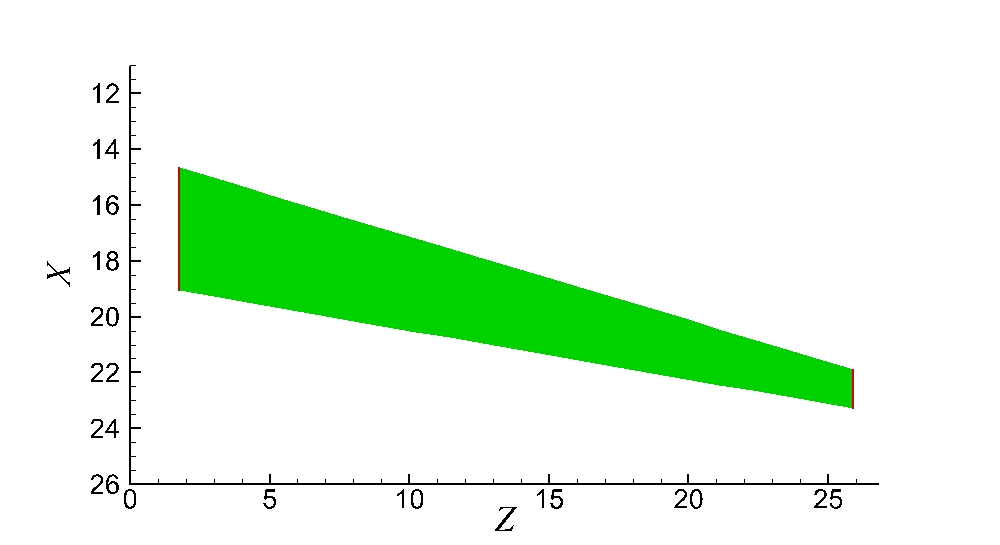
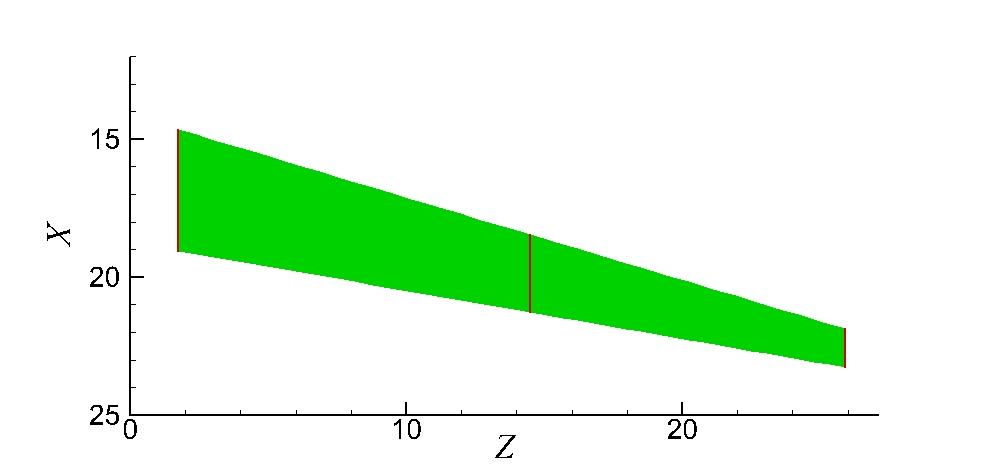
tutorial wing

diff --git a/example/wing/test-wing-basic.py b/example/wing/test-wing-basic.py
@@ -10,7 +10,7 @@ if __name__ == "__main__":
     #  Each section's upper/lower surface are constructed by CST method
     #  The chord-wise has nn points in the upper/lower surface
     #  The span-wise has ns points in each surface between two adjcent sections
-    wing = Surface(n_sec=2, name='Wing-basic', nn=101, ns=21)
+    wing = Surface(n_sec=3, name='Wing-basic', nn=101, ns=21)
 
 
     #* Read settings from file 'Wing.txt'
